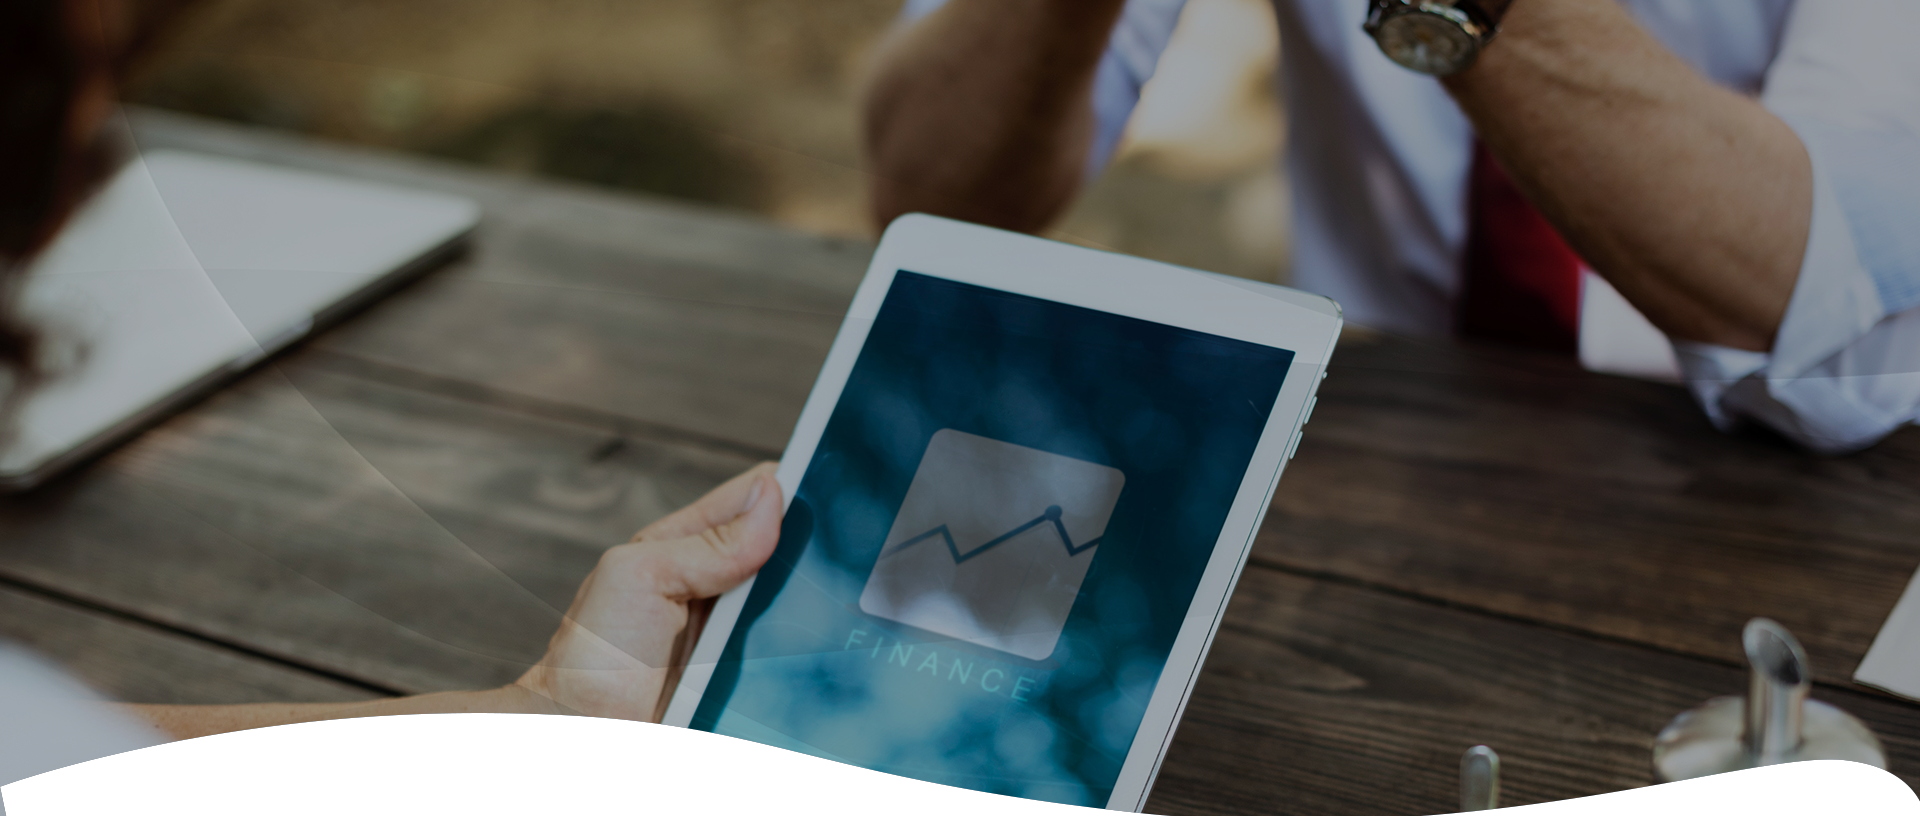
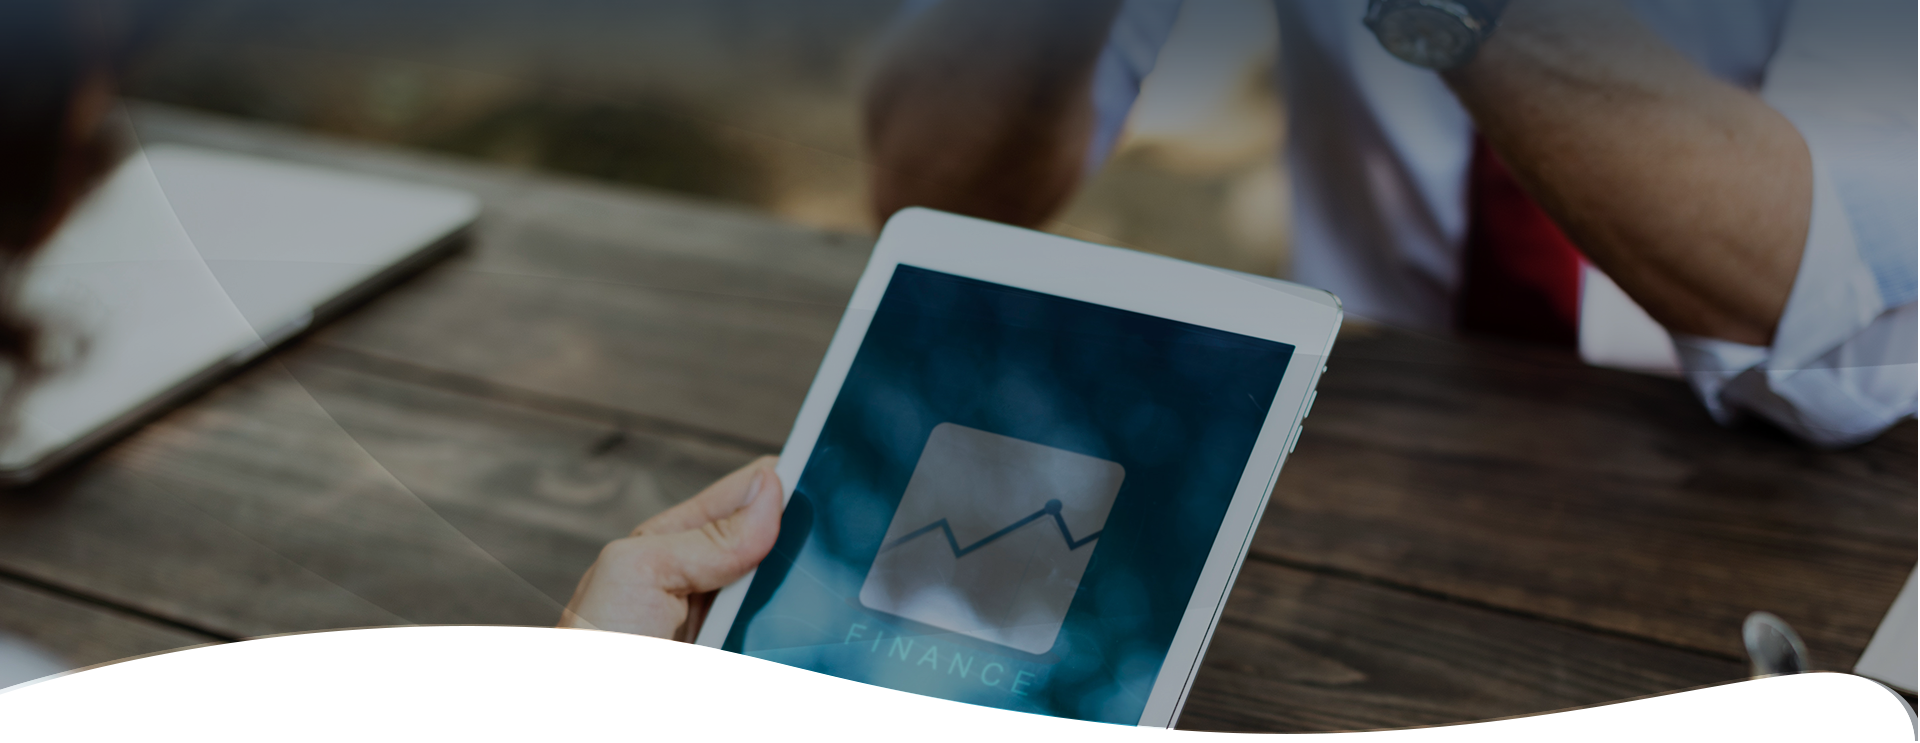
update

diff --git a/assets/css/_pages.scss b/assets/css/_pages.scss
@@ -1,6 +1,6 @@
 .home{
   .hero{
-    margin-top: -80px;
+    margin-top: -97px;
     background-image: url("../images/hero.png");
     display: table;
     width: 100%;
@@ -11,7 +11,7 @@
     padding: 100px 1rem 5px;
     position: relative;
     overflow: hidden;
-    height: 70vh;
+    height: 75vh;
     background-color: #EDF7FD;
     .d-flex{
       height: 100%;;
@@ -148,7 +148,7 @@
   }
 }
 footer{
-  padding: 70px 0px 10px;
+  padding: 100px 0px 10px;
   background-image: url("../images/bg_footer.png");
   background-color: #d7e6ef;
   color: #fff;

diff --git a/assets/css/_navbar.scss b/assets/css/_navbar.scss
@@ -2,4 +2,8 @@
   font-weight: 400;
   min-height: 80px;
   z-index: 1;
+
+  .logo{
+    max-height: 60px;
+  }
 }
